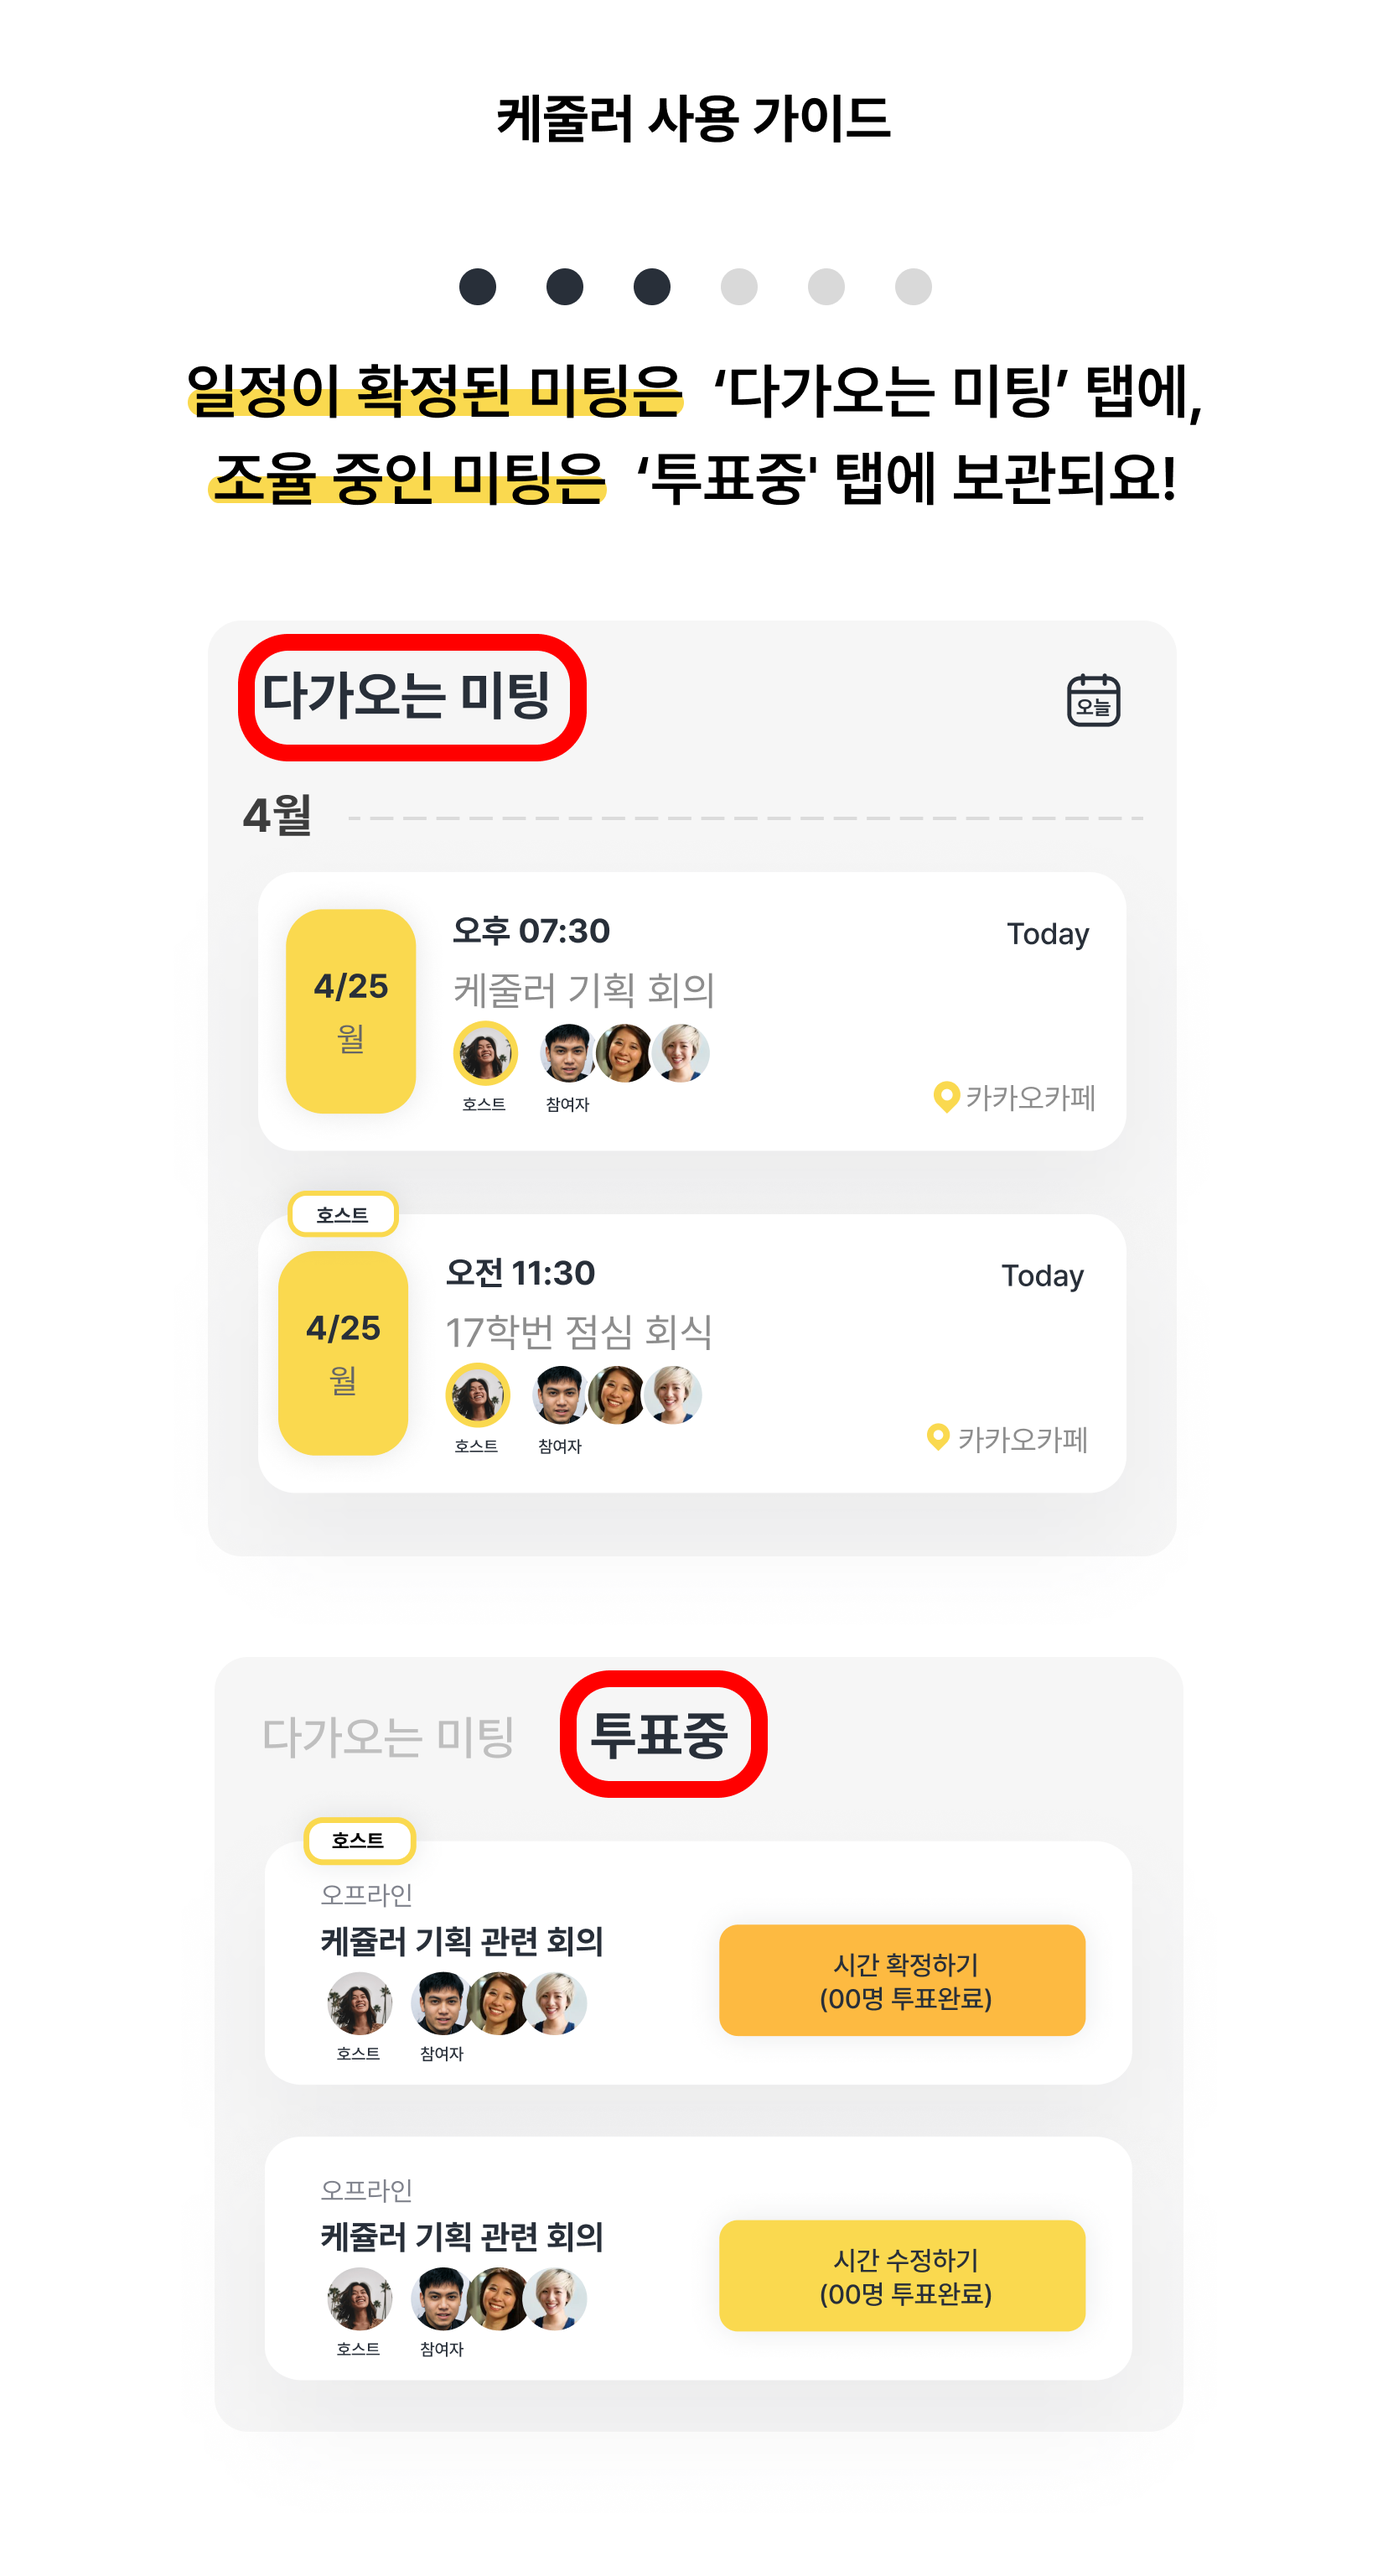
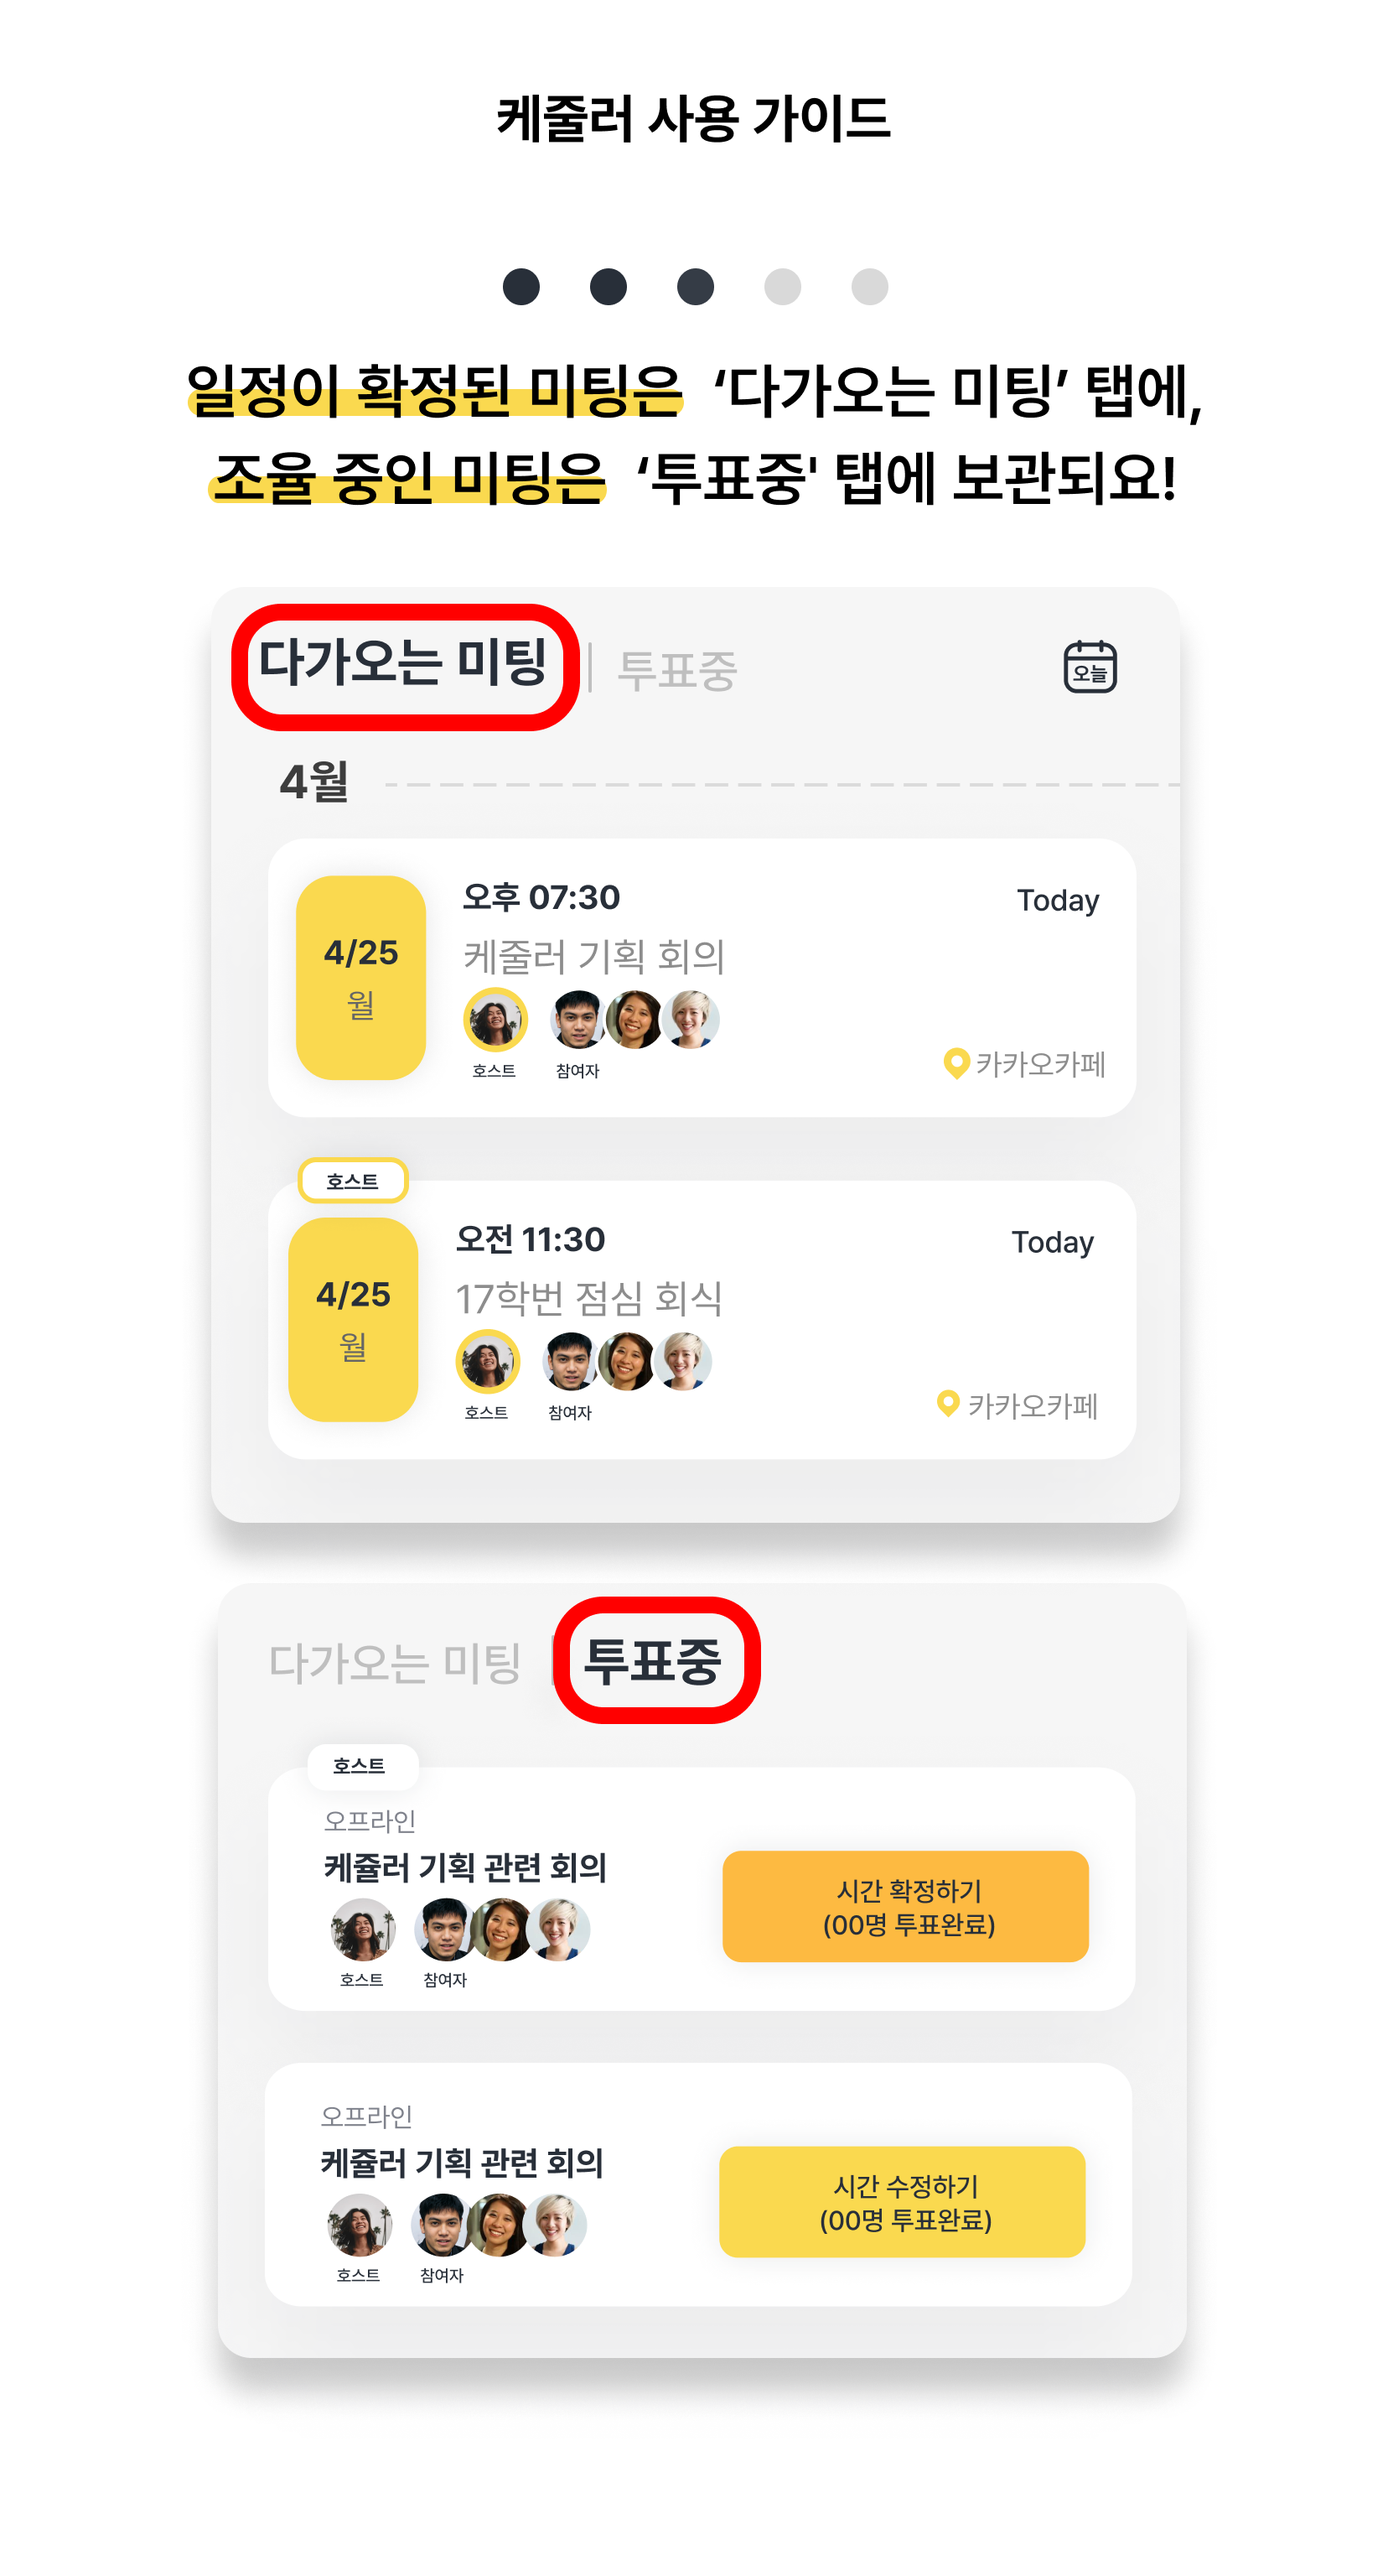
[#302] Hotfix : tutorial quick fix

diff --git a/frontend/kezuler-fe/src/components/Tutorials.tsx b/frontend/kezuler-fe/src/components/Tutorials.tsx
@@ -39,7 +39,7 @@ function Tutorials() {
     }
   };
   const handleRightClick = () => {
-    if (index < 5) {
+    if (index < 4) {
       setIndex(index + 1);
     }
   };
@@ -71,7 +71,7 @@ function Tutorials() {
               onClick={handleLeftClick}
             />
           )}
-          {index < 5 && (
+          {index < 4 && (
             <ArrowLeftIcon
               className={classNames('tutorial-arrow', 'right')}
               onClick={handleRightClick}
@@ -87,7 +87,7 @@ function Tutorials() {
             <img src={Tutorial3} style={{ width: '100%' }} />
             <img src={Tutorial4} style={{ width: '100%' }} />
             <img src={Tutorial5} style={{ width: '100%' }} />
-            <img src={Tutorial6} style={{ width: '100%' }} />
+            {/* <img src={Tutorial6} style={{ width: '100%' }} /> */}
           </SwipeableViews>
         </div>
       </div>
